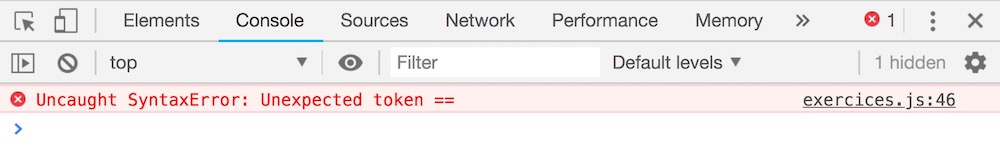
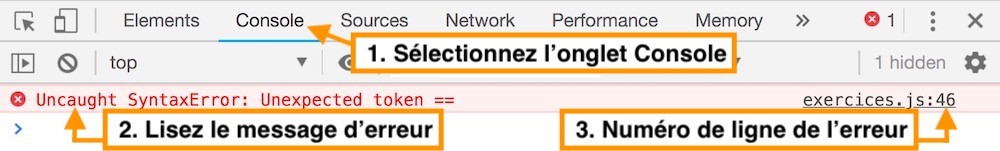
Ajout de la section "en cas de problèmes techniques" sur la première leçon

Changed region(s): [[0.31, 0.1589, 0.744, 0.5033], [0.062, 0.6887, 0.465, 1.0], [0.558, 0.6887, 0.961, 1.0]]

diff --git a/cours/05 - Les chaines de caracteres/exercices.html b/cours/05 - Les chaines de caracteres/exercices.html
@@ -1,164 +1,227 @@
 <!DOCTYPE html>
 <html lang="fr">
-  <head>
-    <meta charset="UTF-8" />
-    <meta name="viewport" content="width=device-width, initial-scale=1.0" />
-    <meta http-equiv="X-UA-Compatible" content="ie=edge" />
-    <title>Les chaînes de caractères - Exercices</title>
-    <link rel="stylesheet" type="text/css" href="../commun/style.css" />
-    <link rel="icon" type="image/png" href="../../images/favicon-64px.png"/>
-  </head>
 
-  <body>
-    <h1>Les chaînes de caractères</h1>
+<head>
+  <meta charset="UTF-8" />
+  <meta name="viewport" content="width=device-width, initial-scale=1.0" />
+  <meta http-equiv="X-UA-Compatible" content="ie=edge" />
+  <title>Les chaînes de caractères - Exercices</title>
+  <link rel="stylesheet" type="text/css" href="../commun/style.css" />
+  <link rel="icon" type="image/png" href="../../images/favicon-64px.png" />
+</head>
+
+<body>
+  <h1>Les chaînes de caractères</h1>
+  <p>
+    Pour répondre à ces exercices, tapez votre code dans le fichier <code>exercices.js</code>.
+  </p>
+
+  <h2>En cas de problèmes techniques</h2>
+  <p>Il se peut que vous rencontriez certains problèmes techniques pour valider les exercices.<br>
+  Lisez leur solution au moins une fois avant de commencer les exercices.</p>
+  <ul>
+    <li><p>Si certains exercices précédemment validés en vert redeviennent gris et "En attente de code à tester" : c'est qu'il y
+      a une erreur de syntaxe dans votre code. Solution : ouvrez la console développeur et corrigez l'erreur.</p>
+      <details>
+        <summary>Cliquez ici pour savoir comment ouvrir la console développeur de Chrome</summary>
+        <p><strong>Sur Windows ou Linux</strong> : depuis Chrome, tapez <code>Ctrl + Shift + J</code> ou allez dans le menu (les 3
+          petits points verticaux en haut à droite de la fenêtre de Chrome) puis allez dans Plus d'outils > Outils de
+          développement.</p>
+        <p><strong>Sur MacOS</strong> : depuis Chrome, tapez <code>⌘ + ⌥ + J</code> (Commande + Option + J) ou bien allez dans le
+          menu Afficher > Options pour les développeurs > Console JavaScript.</p>
+        <p>Le message d'erreur apparaît en rouge et est en anglais, il faudra le traduire. L'erreur vient du fichier
+          noté sur la droite au numéro de ligne indiqué :<br><br>
+          <img src="../../images/console-developpeur.jpg" alt="Onglet console de la console développeur" style="width: 100%">
+        </p>
+      </details>
+    </li>
+    <li>
+      <p>Si la page web ne répond plus (les clics n'ont aucun effet) ou si l'icône dans l'onglet tourne indéfiniment : c'est qu'il y a une boucle infinie dans votre code. Solution : corrigez votre code et relancez tout le site web.</p>
+      <details>
+        <summary>Cliquez ici pour voir comment corriger une boucle infinie</summary>
+        <p>Si vous avez fait une boucle infinie, l'icône de votre onglet va tourner comme ça indéfiniment :<br /><br /><img
+            src="../../images/boucle-infinie.jpg" alt="page web en boucle infinie" width="400"></p>
+        <p>Voici à quoi peut ressembler une boucle infinie dans du code :</p>
+        <p class="code">
+          let poidsClient = prochainClient.mesurerPoids();<br><br>
+
+          while (poidsClient !== 0) {<br>
+          &nbsp;&nbsp;console.log(poidsClient);<br>
+          }
+        </p>
+        <p>Le problème ici, c'est que la condition de répétition de la boucle <code>poidsClient !== 0</code> est
+          toujours vraie ! En effet, on ne modifie pas la valeur de <code>poidsClient</code> à l'intérieur de la boucle, par
+          conséquent celle-ci s'exécutera sans jamais s'arrêter : vous avez fait une boucle infinie !</p>
+        <p>Voici les étapes à respecter pour se sortir de ce problème :</p>
+        <ol>
+          <li>Corrigez le code de la boucle infinie dans VSCode</li>
+          <li>Fermez l'onglet où la boucle infinie s'est produite (celui où l'icône tourne indéfiniment). S'il ne se ferme pas quand vous cliquez sur la croix, allez dans le menu de Chrome > Plus d'outils > Gestionnaire de tâches, sélectionnez l'onglet qui pose problème dans la liste puis cliquez sur le bouton <code>Arrêter le processus</code> en bas à droite.</li>
+          <li>Dans VSCode, désactivez le serveur web en cliquant sur <code>🚫 Port : 5500</code> dans la barre bleue
+            tout en bas</li>
+          <li>Relancez à nouveau le serveur web en ouvrant le fichier <code>exercices.html</code> et en cliquant sur le
+            bouton <code>Go Live</code> en bas dans la barre bleue. Vous pouvez également faire un clic droit sur
+            <code>exercices.html</code> dans la liste des fichiers à gauche et cliquer sur
+            <code>Open with Live Server</code> si le bouton <code>Go Live</code> n'était pas présent dans la barre bleue en bas.</li>
+        </ol>
+        <h3>Attention à la sauvegarde automatique dans VSCode !</h3>
+        <p>Dans les paramètres, je vous conseille d'utiliser l'option <code>onFocusChange</code> pour la sauvegarde
+          automatique.</p>
+        <img src="../../images/autosave.jpg" alt="configuration option sauvegarde automatique vscode"
+          style="width: 100%">
+        <p>En effet, si vous avez l'option <code>afterDelay</code> de sélectionnée, ça veut dire que VSCode va
+          sauvegarder votre code toutes les X secondes. Le site web va se recharger automatiquement à ce moment là et si
+          votre code actuel génère une boucle infinie, Chrome va planter !</p>
+        <p>Pour éviter ce problème, utilisez l'option <code>onFocusChange</code> qui indique à VSCode de sauvegarder
+          votre fichier seulement si vous changez de fenêtre ou d'onglet. Vous pouvez aussi sauvegarder manuellemment
+          avec <code>⌘ + S</code> sur MacOS ou <code>Ctrl + S</code> sur Windows ou Linux quand vous voulez vérifier que votre code fonctionne.</p>
+      </details>
+    </li>
+    <li>
+      <p>Si vous souhaitez déboguer votre code, utilisez le débogueur de Chrome comme je l'explique <a href="https://www.youtube.com/watch?v=_imeD5H-yCw&t=557">dans cette vidéo</a>.</p>
+    </li>
+    <li><p>Si vous êtes bloqué et qu'aucune solution mentionnée ne fonctionne, envoyez-moi un email sur <a href="mailto:jeremy@javascriptdezero.com">jeremy@javascriptdezero.com</a> en précisant le numéro de la leçon sur laquelle vous travaillez et le numéro de l'exercice qui pose problème.</p></li>
+  </ul>
+
+  <h2>Documentation</h2>
+  <ul>
+    <li>
+      <a class="mdn" href="https://developer.mozilla.org/fr/docs/Web/JavaScript/Reference/Objets_globaux/String"
+        target="_blank">Consulter la doc MDN sur les chaînes de caractères</a>
+    </li>
+  </ul>
+
+  <h2>Objectifs</h2>
+  <ul>
+    <li>Utiliser l'instruction <code>console.log()</code> pour afficher des chaînes de caractères.</li>
+    <li>Échapper des caractères avec <code>\</code>.</li>
+    <li>Concaténer plusieurs chaînes de caractères avec l'opérateur <code>+</code>.</li>
+    <li>Utiliser les littéraux de gabarit <code>``</code> pour construire des chaînes de caractères.</li>
+  </ul>
+
+  <div class="enonce" id="enonce-0">
+    <h2>Exercice 0</h2>
+
+    <p>Affichez la phrase <code>JavaScript est facile</code>.</p>
+
+    <div class="message"></div>
+  </div>
+
+  <div class="enonce" id="enonce-1">
+    <h2>Exercice 1</h2>
+
+    <p>Affichez la phrase <code>JavaScript c'est facile</code>.</p>
+
+    <div class="message"></div>
+  </div>
+
+  <div class="enonce" id="enonce-2">
+    <h2>Exercice 2</h2>
+
+    <p>Affichez la phrase <code>C'est Lao Tseu qui a dit : "L'échec est le fondement de la réussite"</code>.</p>
+    <p class="attention">Pensez à inclure les guillements simples et doubles !</p>
+
+    <div class="message"></div>
+  </div>
+
+  <div class="enonce" id="enonce-3">
+    <h2>Exercice 3</h2>
+
+    <p>Affichez la phrase <code>Afficher un \ n'est pas si évident</code>.</p>
+
+    <div class="message"></div>
+  </div>
+
+  <div class="enonce" id="enonce-4">
+    <h2>Exercice 4</h2>
+
     <p>
-      Pour répondre à ces exercices, tapez votre code dans le fichier <code>exercices.js</code>.<br />
-      N'oubliez pas d'ouvrir la console développeur de Chrome pour voir vos erreurs JavaScript.
+      Affichez les phrases suivantes en utilisant <strong>une seule</strong> instruction <code>console.log()</code> :
+    </p>
+    <p class="code">
+      Ceci est la première ligne<br />
+      Ceci est la deuxième ligne
+    </p>
+    <p class="attention">
+      Insérez le caractère <code>nouvelle ligne</code> au bon endroit dans votre chaîne en utilisant <code>\</code>.
+    </p>
+
+    <div class="message"></div>
+  </div>
+
+  <div class="enonce" id="enonce-5">
+    <h2>Exercice 5</h2>
+
+    <p>
+      Affichez le poème suivant en utilisant <strong>une seule</strong> instruction <code>console.log()</code> grâce
+      aux littéraux de gabarit <code>``</code> :
+    </p>
+    <p class="code">
+      Un jour le JavaScript n'aura plus de secrets pour moi<br />
+      Lire du code ne sera plus une gageure mais une joie<br />
+      Mes doigts seront habitués à tous ces symboles particuliers<br />
+      Et ma créativité de développeur pourra enfin s'exprimer
+    </p>
+
+    <div class="message"></div>
+  </div>
+
+  <div class="enonce bogue" id="enonce-6">
+    <h2>Chassez le bogue ! 0</h2>
+    <img alt="insecte" src="../../images/insecte-ricane.png" />
+
+    <p>
+      Tom vient juste de se faire embaucher dans la société <strong>MagiciensDuCode</strong> en tant que développeur
+      JavaScript junior.
     </p>
     <p>
-      <a
-        class="mdn"
-        href="https://developer.mozilla.org/fr/docs/Web/JavaScript/Reference/Objets_globaux/String"
-        target="_blank"
-        >Consulter la doc MDN sur les chaînes de caractères</a
-      >
+      Aujourd'hui, son patron Hugo vient le voir car il prépare une grosse campagne marketing. Il a besoin d'envoyer
+      une lettre personnalisée à chaque client qui commence comme ça :
+    </p>
+    <p class="code">Bonjour &lt;prénom du client&gt;, aujourd'hui nous faisons une promo "la fidélité paye" !</p>
+    <p class="clearboth">
+      Tom doit écrire une chaîne de caractère qui permet d'écrire cette phrase pour chaque client. Pour l'instant il
+      essaye de faire fonctionner son code avec le prénom "Bob".
+    </p>
+    <p>Malheureusement son code ne fonctionne pas, pouvez-vous corriger ses erreurs ?</p>
+    <div class="message"></div>
+  </div>
+
+  <div class="enonce bogue" id="enonce-7">
+    <h2>Chassez le bogue ! 1</h2>
+    <img alt="insecte" src="../../images/insecte-ricane.png" />
+
+    <p>
+      Hugo vient voir Tom pour lui demander de formater un peu le début de sa lettre car on ne plaisante pas avec le
+      marketing chez <strong>MagiciensDuCode</strong>.
+    </p>
+    <p>Il aimerait qu'elle ressemble plutôt à ça :</p>
+    <p class="code">
+      &nbsp;&nbsp;&nbsp;&nbsp;&nbsp;&nbsp;&nbsp;&nbsp;Bonjour &lt;prénom du client&gt;,<br /><br />Aujourd'hui nous
+      faisons une promo "la fidélité paye" !
     </p>
 
-    <div class="objectifs">
-      <h2>Objectifs</h2>
-      <ul>
-        <li>Utiliser l'instruction <code>console.log()</code> pour afficher des chaînes de caractères.</li>
-        <li>Échapper des caractères avec <code>\</code>.</li>
-        <li>Concaténer plusieurs chaînes de caractères avec l'opérateur <code>+</code>.</li>
-        <li>Utiliser les littéraux de gabarit <code>``</code> pour construire des chaînes de caractères.</li>
-      </ul>
-    </div>
+    <p class="clearboth">
+      La première ligne contient 2 caractères <code>tabulation</code> juste avant le <code>Bonjour</code>. Tom a
+      cherché un peu
+      <a href="https://developer.mozilla.org/fr/docs/Web/JavaScript/Reference/Objets_globaux/String">dans la doc</a>
+      et commencé à rédiger du code.
+    </p>
+    <p>Malheureusement son code ne fonctionne pas, pouvez-vous corriger ses erreurs ?</p>
+    <p class="attention">Veillez à utiliser des caractères <code>tabulation</code> et pas des espaces !</p>
+    <br />
+    <div class="message"></div>
+  </div>
 
-    <div class="enonce" id="enonce-0">
-      <h2>Exercice 0</h2>
+  <footer>
+    Exercices de la formation <a href="https://www.javascriptdezero.com">JavaScript de Zéro</a> par
+    <a href="https://twitter.com/JeremyMouzin">Jérémy Mouzin</a>
+  </footer>
 
-      <p>Affichez la phrase <code>JavaScript est facile</code>.</p>
+  <script src="../commun/mes-outils.js"></script>
+  <script src="validateur/reponses.js"></script>
+  <script src="../commun/init.js"></script>
+  <script src="exercices.js"></script>
+  <script src="../commun/validateur.js"></script>
+</body>
 
-      <div class="message"></div>
-    </div>
-
-    <div class="enonce" id="enonce-1">
-      <h2>Exercice 1</h2>
-
-      <p>Affichez la phrase <code>JavaScript c'est facile</code>.</p>
-
-      <div class="message"></div>
-    </div>
-
-    <div class="enonce" id="enonce-2">
-      <h2>Exercice 2</h2>
-
-      <p>Affichez la phrase <code>C'est Lao Tseu qui a dit : "L'échec est le fondement de la réussite"</code>.</p>
-      <p class="attention">Pensez à inclure les guillements simples et doubles !</p>
-
-      <div class="message"></div>
-    </div>
-
-    <div class="enonce" id="enonce-3">
-      <h2>Exercice 3</h2>
-
-      <p>Affichez la phrase <code>Afficher un \ n'est pas si évident</code>.</p>
-
-      <div class="message"></div>
-    </div>
-
-    <div class="enonce" id="enonce-4">
-      <h2>Exercice 4</h2>
-
-      <p>
-        Affichez les phrases suivantes en utilisant <strong>une seule</strong> instruction <code>console.log()</code> :
-      </p>
-      <p class="code">
-        Ceci est la première ligne<br />
-        Ceci est la deuxième ligne
-      </p>
-      <p class="attention">
-        Insérez le caractère <code>nouvelle ligne</code> au bon endroit dans votre chaîne en utilisant <code>\</code>.
-      </p>
-
-      <div class="message"></div>
-    </div>
-
-    <div class="enonce" id="enonce-5">
-      <h2>Exercice 5</h2>
-
-      <p>
-        Affichez le poème suivant en utilisant <strong>une seule</strong> instruction <code>console.log()</code> grâce
-        aux littéraux de gabarit <code>``</code> :
-      </p>
-      <p class="code">
-        Un jour le JavaScript n'aura plus de secrets pour moi<br />
-        Lire du code ne sera plus une gageure mais une joie<br />
-        Mes doigts seront habitués à tous ces symboles particuliers<br />
-        Et ma créativité de développeur pourra enfin s'exprimer
-      </p>
-
-      <div class="message"></div>
-    </div>
-
-    <div class="enonce bogue" id="enonce-6">
-      <h2>Chassez le bogue ! 0</h2>
-      <img alt="insecte" src="../../images/insecte-ricane.png" />
-
-      <p>
-        Tom vient juste de se faire embaucher dans la société <strong>MagiciensDuCode</strong> en tant que développeur
-        JavaScript junior.
-      </p>
-      <p>
-        Aujourd'hui, son patron Hugo vient le voir car il prépare une grosse campagne marketing. Il a besoin d'envoyer
-        une lettre personnalisée à chaque client qui commence comme ça :
-      </p>
-      <p class="code">Bonjour &lt;prénom du client&gt;, aujourd'hui nous faisons une promo "la fidélité paye" !</p>
-      <p class="clearboth">
-        Tom doit écrire une chaîne de caractère qui permet d'écrire cette phrase pour chaque client. Pour l'instant il
-        essaye de faire fonctionner son code avec le prénom "Bob".
-      </p>
-      <p>Malheureusement son code ne fonctionne pas, pouvez-vous corriger ses erreurs ?</p>
-      <div class="message"></div>
-    </div>
-
-    <div class="enonce bogue" id="enonce-7">
-      <h2>Chassez le bogue ! 1</h2>
-      <img alt="insecte" src="../../images/insecte-ricane.png" />
-
-      <p>
-        Hugo vient voir Tom pour lui demander de formater un peu le début de sa lettre car on ne plaisante pas avec le
-        marketing chez <strong>MagiciensDuCode</strong>.
-      </p>
-      <p>Il aimerait qu'elle ressemble plutôt à ça :</p>
-      <p class="code">
-        &nbsp;&nbsp;&nbsp;&nbsp;&nbsp;&nbsp;&nbsp;&nbsp;Bonjour &lt;prénom du client&gt;,<br /><br />Aujourd'hui nous
-        faisons une promo "la fidélité paye" !
-      </p>
-
-      <p class="clearboth">
-        La première ligne contient 2 caractères <code>tabulation</code> juste avant le <code>Bonjour</code>. Tom a
-        cherché un peu
-        <a href="https://developer.mozilla.org/fr/docs/Web/JavaScript/Reference/Objets_globaux/String">dans la doc</a>
-        et commencé à rédiger du code.
-      </p>
-      <p>Malheureusement son code ne fonctionne pas, pouvez-vous corriger ses erreurs ?</p>
-      <p class="attention">Veillez à utiliser des caractères <code>tabulation</code> et pas des espaces !</p>
-      <br />
-      <div class="message"></div>
-    </div>
-
-    <p>D'autres exercices arrivent bientôt... patience !</p>
-
-    <footer>
-      Exercices de la formation <a href="https://www.javascriptdezero.com">JavaScript de Zéro</a> par
-      <a href="https://twitter.com/JeremyMouzin">Jérémy Mouzin</a>
-    </footer>
-
-    <script src="../commun/mes-outils.js"></script>
-    <script src="validateur/reponses.js"></script>
-    <script src="../commun/init.js"></script>
-    <script src="exercices.js"></script>
-    <script src="../commun/validateur.js"></script>
-  </body>
 </html>

diff --git a/cours/commun/style.css b/cours/commun/style.css
@@ -63,8 +63,18 @@ h1 {
   border-bottom: solid var(--jaune) var(--dim-base);
 }
 
-a {
+a, summary {
   color: var(--bleu);
+}
+
+details {
+  margin-left: 2rem;
+}
+
+summary {
+  text-decoration: underline;
+  cursor: pointer;
+  display: inline-block;
 }
 
 code,
